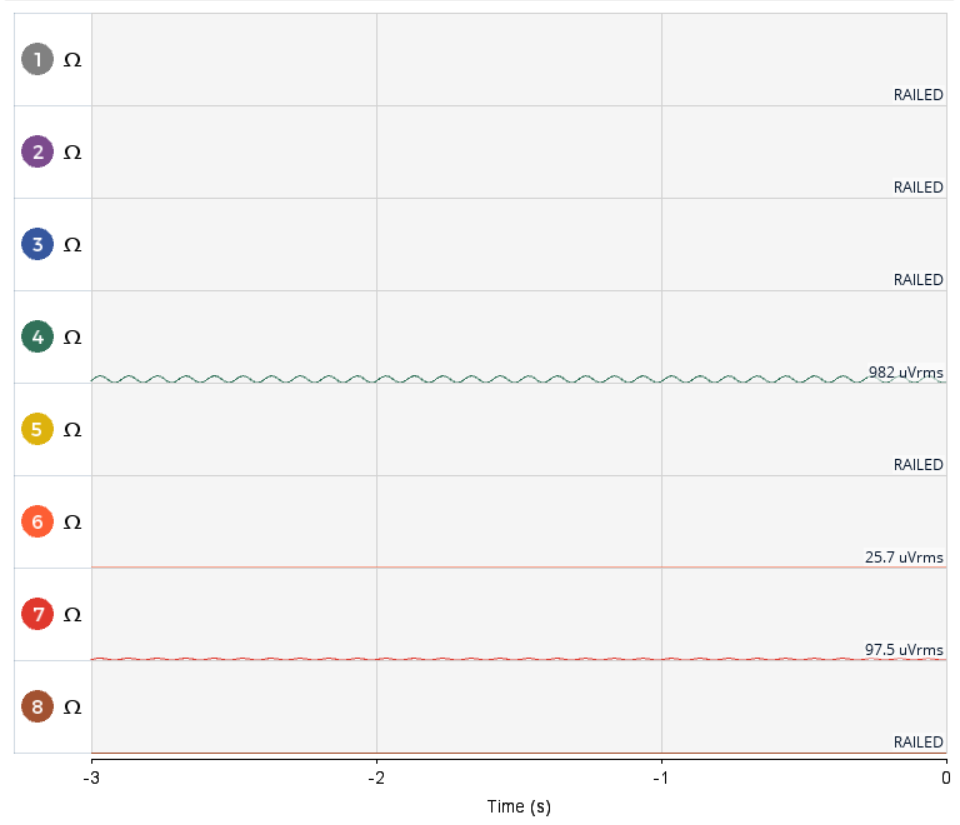
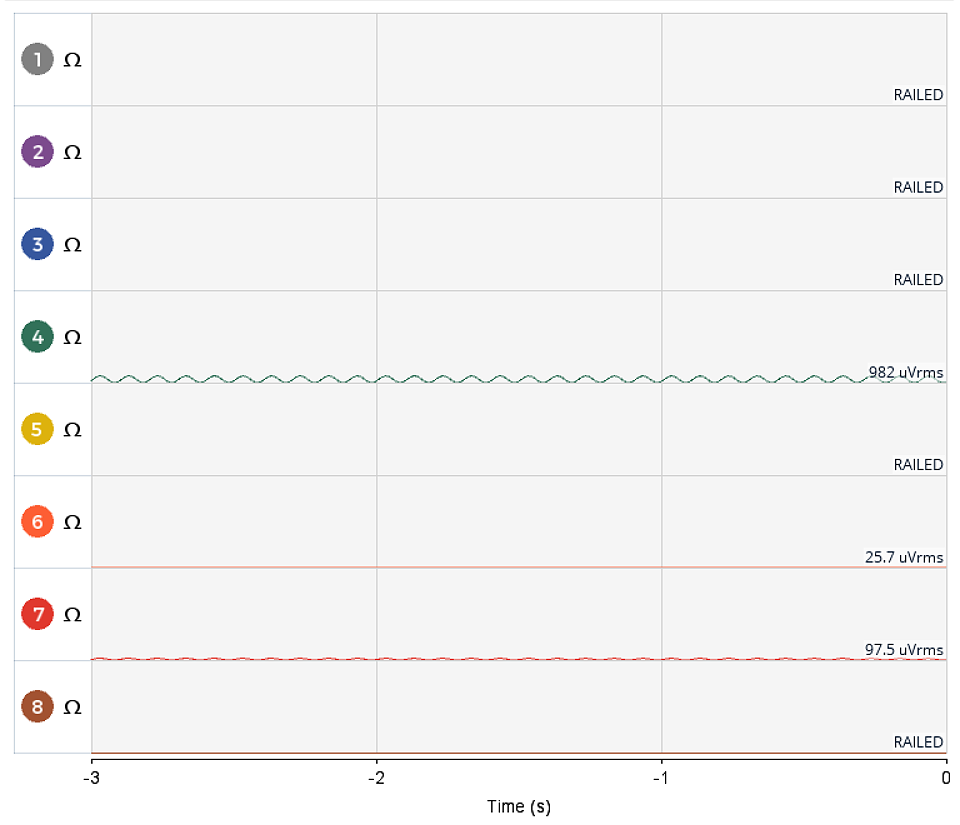
Updated figures and improved quality

diff --git a/01_Chapters/developed-product/main.tex b/01_Chapters/developed-product/main.tex
@@ -144,6 +144,7 @@ The final design (Figure~\ref{fig:iteration_3_ui}) resolved the visualization va
 \end{figure}
 
 \begin{figure}[p]
+    \ContinuedFloat
     \centering
     \begin{subfigure}[b]{\textwidth}
         \centering
@@ -162,10 +163,10 @@ The final design (Figure~\ref{fig:iteration_3_ui}) resolved the visualization va
     \end{subfigure}
 
     \caption[User Interface {-} Iteration 3 (continued)]{User Interface {-} Iteration 3 (continued)}
-    \label{fig:iteration_3_ui_continued}
 \end{figure}
 
 \begin{figure}[t]
+    \ContinuedFloat
     \centering
     \begin{subfigure}[b]{\textwidth}
         \centering
@@ -175,8 +176,10 @@ The final design (Figure~\ref{fig:iteration_3_ui}) resolved the visualization va
     \end{subfigure}
 
     \caption[User Interface {-} Iteration 3 (continued)]{User Interface {-} Iteration 3 (continued)}
-    \label{fig:iteration_3_ui_final}
 \end{figure}
+
+
+\newpage
 
 Applying this last changes resulted in the final UI design, with separate views for generation and measurement as shown in Figure~\ref{fig:final_ui_views}.
 
@@ -188,17 +191,21 @@ Applying this last changes resulted in the final UI design, with separate views 
         \caption{Generation View}
         \label{fig:generated_view_ui}
     \end{subfigure}
-    
-    \vspace{1em}
-    
+    \caption[Final User Interface Design]{Final User Interface Design: (a) Generation View showing the synthetic signal preview.}
+    \label{fig:final_ui_views}
+\end{figure}
+
+\begin{figure}[H]
+    \ContinuedFloat
+    \centering
     \begin{subfigure}[b]{\textwidth}
         \centering
         \includegraphics[width=\textwidth]{../../02_Images/measured_view_ui.png}
         \caption{Measured View}
         \label{fig:measured_view_ui}
     \end{subfigure}
-    \caption[Final User Interface Design]{Final User Interface Design: (a) Generation View showing the synthetic signal preview, and (b) Measured View displaying the full 8-channel OpenBCI array}
-    \label{fig:final_ui_views}
+    \caption[Final User Interface Design (continued)]{Final User Interface Design (continued): (b) Measured View displaying the full 8-channel OpenBCI array.}
+    \label{fig:final_ui_views_continued}
 \end{figure}
 
 \subsection{Hardware Architecture}

diff --git a/01_Chapters/results/closed-loop-validation.tex b/01_Chapters/results/closed-loop-validation.tex
@@ -27,14 +27,14 @@ Using this developed closed-loop system, tests were conducted to validate the pe
 
 \begin{figure}[H]
     \centering
-    \includegraphics[width=0.8\textwidth]{../../02_Images/closed_loop.png}
+    \includegraphics[width=\textwidth]{../../02_Images/closed_loop.png}
     \caption[Phantom prototype validation: Generation via software]{Generation of a predefined electrical pattern using the software.}
     \label{fig:closed_loop}
 \end{figure}
 
 \begin{figure}[H]
     \centering
-    \includegraphics[width=0.8\textwidth]{../../02_Images/closed_loop_2.png}
+    \includegraphics[width=\textwidth]{../../02_Images/closed_loop_2.png}
     \caption[Phantom prototype validation: Measurement via software]{Measurement of a predefined electrical pattern using the software.}
     \label{fig:closed_loop_2}
 \end{figure}

diff --git a/01_Chapters/results/signal-transduction-results.tex b/01_Chapters/results/signal-transduction-results.tex
@@ -44,7 +44,7 @@ The results of the signal transduction and attenuation analysis conducted on a g
     
     \includegraphics[width=0.8\textwidth]{../../02_Images/freq30_b.png}
     
-    \caption[Signal Transduction at 30 Hz]{Signal transduction and attenuation results at 30 Hz (beta band).}
+    \caption[Signal Transduction at 30 Hz]{Signal transduction and attenuation results at 30 Hz (border between beta and gamma band).}
     \label{fig:transduction_30Hz}
 \end{figure}
 